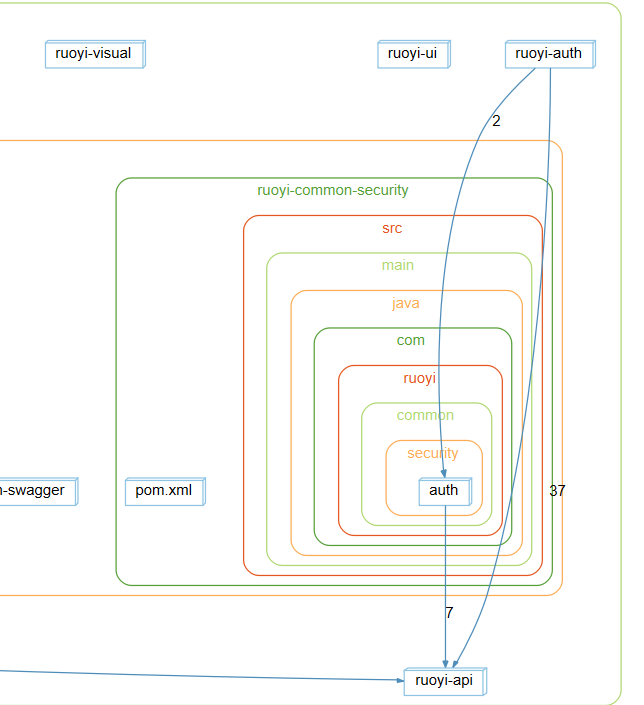
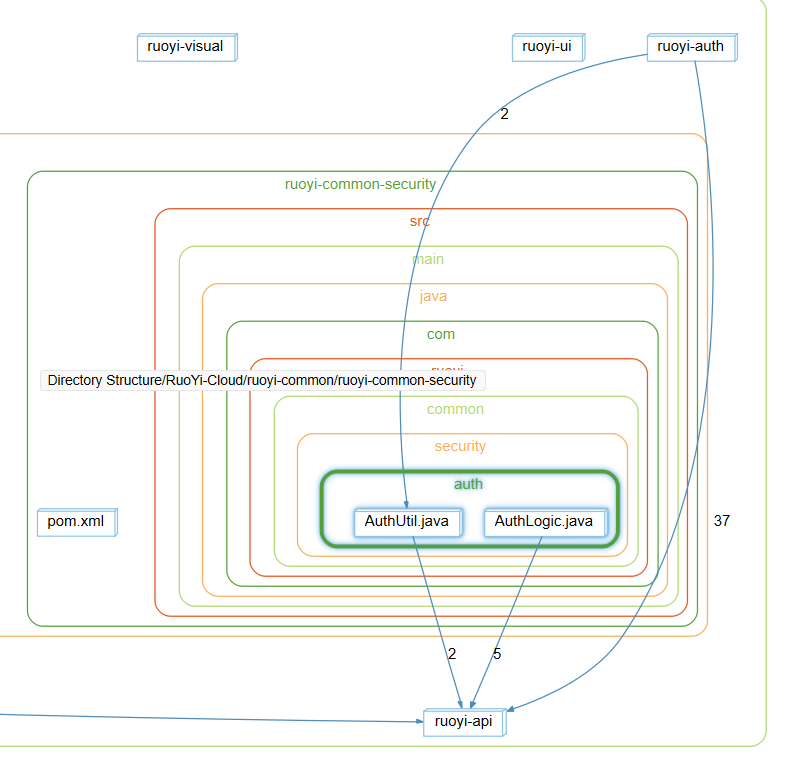
ref7

diff --git a/RuoYi-Cloud/ruoyi-auth/src/main/java/com/ruoyi/auth/controller/TokenController.java b/RuoYi-Cloud/ruoyi-auth/src/main/java/com/ruoyi/auth/controller/TokenController.java
@@ -12,7 +12,7 @@ import com.ruoyi.auth.service.SysLoginService;
 import com.ruoyi.common.core.domain.R;
 import com.ruoyi.common.core.utils.jwt.JwtUtils;
 import com.ruoyi.common.core.utils.string.StringUtils;
-import com.ruoyi.common.security.auth.AuthUtil;
+import com.ruoyi.common.security.auth.util.AuthUtil;
 import com.ruoyi.common.security.service.token.TokenService;
 import com.ruoyi.common.security.utils.SecurityUtils;
 import com.ruoyi.system.api.user.model.LoginUser;

diff --git a/RuoYi-Cloud/ruoyi-common/ruoyi-common-security/src/main/java/com/ruoyi/common/security/interceptor/HeaderInterceptor.java b/RuoYi-Cloud/ruoyi-common/ruoyi-common-security/src/main/java/com/ruoyi/common/security/interceptor/HeaderInterceptor.java
@@ -8,7 +8,7 @@ import com.ruoyi.common.core.constant.SecurityConstants;
 import com.ruoyi.common.core.context.SecurityContextHolder;
 import com.ruoyi.common.core.utils.servlet.ServletUtils;
 import com.ruoyi.common.core.utils.string.StringUtils;
-import com.ruoyi.common.security.auth.AuthUtil;
+import com.ruoyi.common.security.auth.util.AuthUtil;
 import com.ruoyi.common.security.utils.SecurityUtils;
 import com.ruoyi.system.api.user.model.LoginUser;
 

diff --git a/RuoYi-Cloud/ruoyi-common/ruoyi-common-security/src/main/java/com/ruoyi/common/security/aspect/PreAuthorizeAspect.java b/RuoYi-Cloud/ruoyi-common/ruoyi-common-security/src/main/java/com/ruoyi/common/security/aspect/PreAuthorizeAspect.java
@@ -10,7 +10,7 @@ import org.springframework.stereotype.Component;
 import com.ruoyi.common.security.annotation.RequiresLogin;
 import com.ruoyi.common.security.annotation.RequiresPermissions;
 import com.ruoyi.common.security.annotation.RequiresRoles;
-import com.ruoyi.common.security.auth.AuthUtil;
+import com.ruoyi.common.security.auth.util.AuthUtil;
 
 /**
  * 基于 Spring Aop 的注解鉴权

diff --git a/RuoYi-Cloud/ruoyi-common/ruoyi-common-security/src/main/java/com/ruoyi/common/security/auth/util/AuthUtil.java b/RuoYi-Cloud/ruoyi-common/ruoyi-common-security/src/main/java/com/ruoyi/common/security/auth/util/AuthUtil.java
@@ -1,7 +1,8 @@
-package com.ruoyi.common.security.auth;
+package com.ruoyi.common.security.auth.util;
 
 import com.ruoyi.common.security.annotation.RequiresPermissions;
 import com.ruoyi.common.security.annotation.RequiresRoles;
+import com.ruoyi.common.security.auth.logic.AuthLogic;
 import com.ruoyi.system.api.user.model.LoginUser;
 
 /**

diff --git a/RuoYi-Cloud/ruoyi-common/ruoyi-common-security/src/main/java/com/ruoyi/common/security/auth/logic/AuthLogic.java b/RuoYi-Cloud/ruoyi-common/ruoyi-common-security/src/main/java/com/ruoyi/common/security/auth/logic/AuthLogic.java
@@ -1,4 +1,4 @@
-package com.ruoyi.common.security.auth;
+package com.ruoyi.common.security.auth.logic;
 
 import java.util.Collection;
 import java.util.HashSet;
